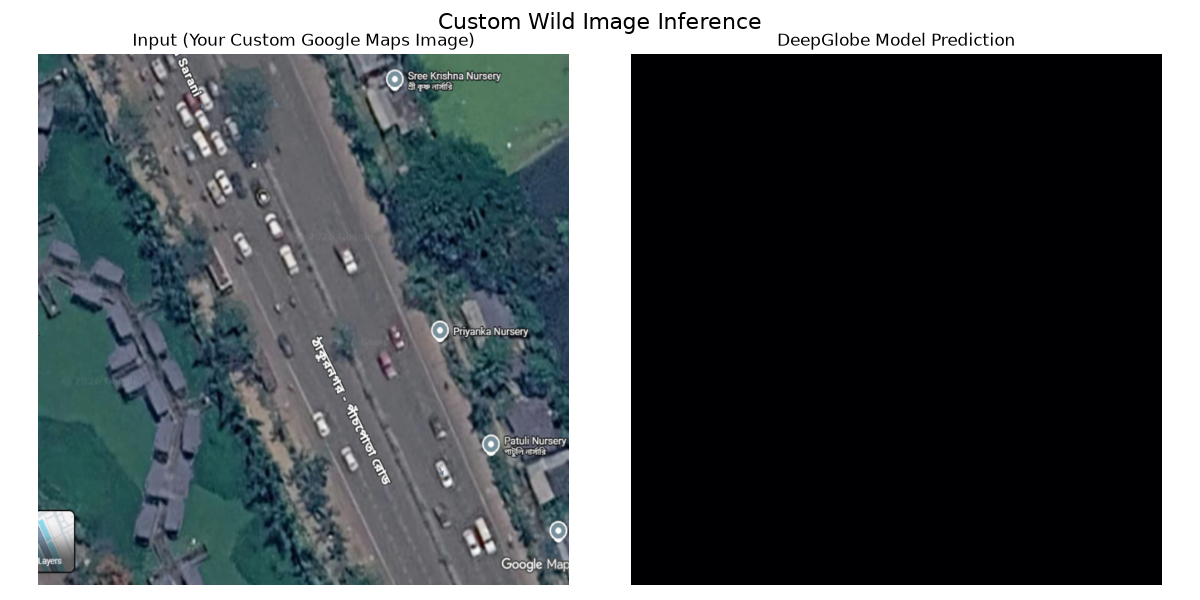
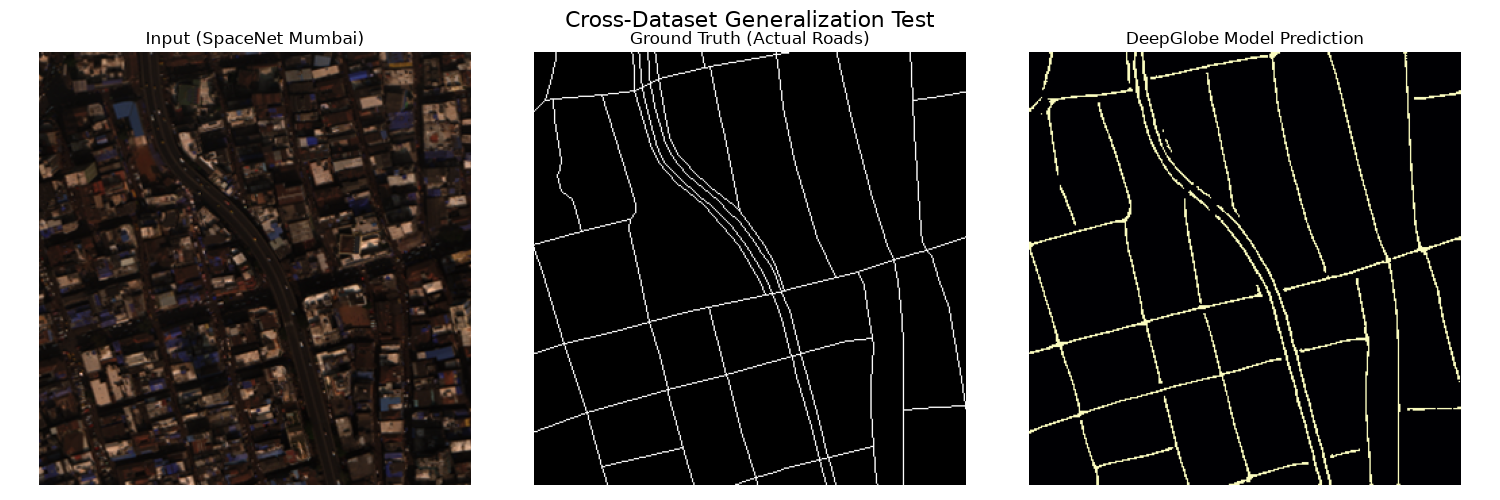
feat: update inference threshold, include finetuned Mumbai model weights, and document training results and visualizations.

diff --git a/inference_generalize.py b/inference_generalize.py
@@ -79,7 +79,7 @@ def test_generalization(model_path="mumbai_finetuned_model.pth"):
     img_display = image_rgb.squeeze().permute(1, 2, 0).cpu().numpy()
     img_display = (img_display - img_display.min()) / (img_display.max() - img_display.min())
     
-    prediction_thresholded = (prediction > 0.5).astype(float)
+    prediction_thresholded = (prediction > 0.25).astype(float)
     
     # 5. Plotting
     print("[*] Generating Visualization...")